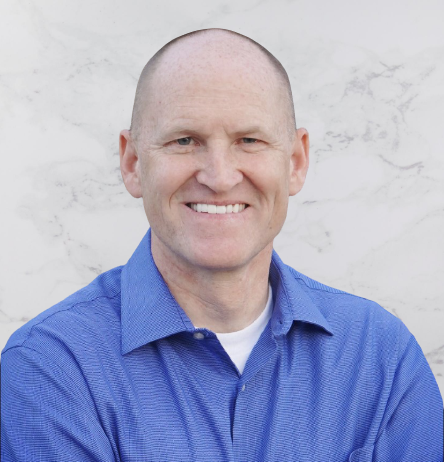
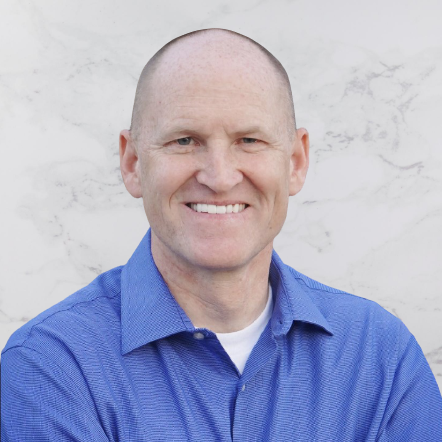
added pageview to components

diff --git a/src/Components/Team/Team.js b/src/Components/Team/Team.js
@@ -5,10 +5,8 @@ import kentMarble from '../../images/kentMarble.png';
 import markMarble2 from '../../images/markMarble2.png';
 import tiaMarble from '../../images/tiaMarble.png';
 import saraMarble2 from '../../images/saraMarble2.png';
-import codyMarble from '../../images/codyMarble.jpg';
+import codyNew from '../../images/codyNew.png';
 import jeffMarble2 from '../../images/jeffMarble2.png';
-// import jeffSuit from '../../images/jeffSuit.png';
-// import jeffSuit from '../../images/jeffSuit.png'
 import johnnyMarble from '../../images/johnnyMarble.jpg'
 import '../../CSS/Pages.css';
 import '../../CSS/App.css';
@@ -21,8 +19,13 @@ import KentModal from './KentModal';
 import MarkModal from './MarkModal';
 import SaraModal from './SaraModal';
 import TiaModal from './TiaModal';
+import ReactGA from 'react-ga';
+
+
 
 const Team = () => {
+  ReactGA.pageview('src/Components/Team/Team.js');
+
 
   //one state hook for each team member's modal
   const [showCodyModal, setShowCodyModal] = useState(false);
@@ -132,11 +135,11 @@ const Team = () => {
                 <div className="thumb-corporate__main team-member-container">
                   <button className="open-button" onClick={openKentModal}>
                     <img src={kentMarble} alt="" className="team-img " />
-                  </button>
                   <div className="overlay">
                     <p>Kent Allen, LMFT</p>
                     <p>Founder / Clinical Director</p>
                   </div>
+                  </button>
                 </div>
               </div>
               <KentModal
@@ -150,11 +153,11 @@ const Team = () => {
                 <div className="thumb-corporate__main team-member-container">
                   <button className="open-button" onClick={openSaraModal}>
                     <img src={saraMarble2} alt="" className="team-img " />
-                  </button>
                   <div className="overlay">
                     <p>Sara Allen, ME</p>
                     <p>Public Safety Liaison</p>
                   </div>
+                  </button>
                 </div>
               </div>
               <SaraModal
@@ -168,11 +171,11 @@ const Team = () => {
                 <div className="thumb-corporate__main team-member-container">
                   <button className="open-button" onClick={openTiaModal}>
                     <img src={tiaMarble} alt="" className="team-img " />
-                  </button>
                   <div className="overlay">
                     <p>Tia White, LCSW</p>
                     <p>Director of Research</p>
                   </div>
+                  </button>
                 </div>
                 <div className="thumb-corporate__caption">
 
@@ -189,11 +192,11 @@ const Team = () => {
                 <div className="thumb-corporate__main team-member-container">
                   <button className="open-button" onClick={openJohnModal}>
                     <img src={johnMarble2} alt="" className="team-img " />
-                  </button>
                   <div className="overlay">
                     <p>John Wright</p>
                     <p>IT Director</p>
                   </div>
+                  </button>
                 </div>
               </div>
               <JohnModal
@@ -206,12 +209,14 @@ const Team = () => {
               <div className="thumb thumb-corporate">
                 <div className="thumb-corporate__main team-member-container">
                   <button className="open-button" onClick={openCodyModal}>
-                    <img src={codyMarble} alt="" className="team-img " />
-                  </button>
+                    {/* <img src={codynewMarble} alt="" className="team-img " /> */}
+                    {/* <img src={codynewMarble2} alt="" className="team-img " /> */}
+                    <img src={codyNew} alt="" className="team-img " />
                   <div className="overlay">
                     <p>Cody Wilson</p>
-                    <p>PPN Advocate Manager</p>
+                    <p>PPN Manager</p>
                   </div>
+                  </button>
                 </div>
               </div>
               <CodyModal
@@ -226,11 +231,11 @@ const Team = () => {
                   <button className="open-button" onClick={openJeffModal}>
                     <img src={jeffMarble2} alt="" className="team-img " />
                     {/* <img src={jeffSuit} alt="" className="team-img " /> */}
-                  </button>
                   <div className="overlay">
                     <p>Jeffrey Denning</p>
                     <p>Sales Director</p>
                   </div>
+                  </button>
                 </div>
               </div>
               <JeffModal
@@ -244,11 +249,11 @@ const Team = () => {
                 <div className="thumb-corporate__main team-member-container">
                   <button className="open-button" onClick={openJohnOModal}>
                     <img src={johnnyMarble} alt="" className="team-img " />
-                  </button>
                   <div className="overlay">
                     <p>John O'Callaghan</p>
                     <p>Business Development</p>
                   </div>
+                  </button>
                 </div>
               </div>
               <JohnOModal

diff --git a/src/CSS/Pages.css b/src/CSS/Pages.css
@@ -79,12 +79,14 @@
   background-color: #7b0303;
   color: #CFCFCF;
 }
+
 .team-img {
   height: auto;
   width: 95%;
   margin: 15px;
   margin-right: 20px;
 }
+
 .thumb__title {
   font-size: 25px;
   font-weight: 700;
@@ -120,16 +122,21 @@
   bottom: 16px;
   left: 20px;
   right: 0;
-  background-color: #e2e2e29d;
+  background-color: #f7f7f7b7;
   overflow: hidden;
   /* width: 92%; */
   height: 40px;
   transition: .5s ease;
   color: black;
 }
-/* .overlay p {
-  padding-left: 2%;
-} */
+.overlay > p {
+  padding-left: 2%; 
+  font-weight: 500;
+}
+.team-member-container {
+  overflow: hidden;
+}
+
 .team-member-container:hover .overlay {
   height: 25%;
   overflow-x: hidden;

diff --git a/src/CSS/Responsive.css b/src/CSS/Responsive.css
@@ -38,6 +38,21 @@
     width: 377px !important;
     /* height: 100px; */
   }
+  .footer-outer {
+    flex-direction: column;
+  }
+  .about {
+    margin-left: 20px;
+    margin-bottom: 20px;
+    margin-top: 0;
+  }
+  .about > p {
+    width: 90vw;
+    font-size: 16px;
+  }
+  .contact {
+    margin: 0 0 10px 20px;
+  }
   /* CORPORATIONS */
   .corp-inner {
     display: flex;
@@ -428,6 +443,7 @@
 .overlay {
   width: 320px;
 }
+
 }
 /*tablet*/
 @media screen and (max-width: 900px ) {
@@ -504,9 +520,9 @@
     position: relative;
     right: 5vw;
   }
-  .about > p {
+  /* .about > p {
     font-size: 12px;
-  }
+  } */
   .contact > p {
     font-size: 12px;
   }

diff --git a/src/Components/Public Safety/PublicSafety.js b/src/Components/Public Safety/PublicSafety.js
@@ -1,15 +1,18 @@
 import React from "react";
 import NavBar from "../NavBar";
 import firefighters from '../../images/firefighters.jpg'
-
 import fireFighter1 from '../../images/fireFighter1.jpg';
 import fireLady from '../../images/fireLady.jpg';
 import medic from '../../images/medic.jpg';
 import TestimonialsPS from "./TestimonialsPS";
 import PsCarousel from "./PsCarousel";
 import UniFooter from "../UniFooter";
+import ReactGA from 'react-ga';
+
 
 const PublicSafety = () => {
+  ReactGA.pageview('src/Components/Public Safety/PublicSafety.js');
+
 
   const Mailto = ({ email, subject = '', body = '', children }) => {
     let params = subject || body ? '?' : '';

diff --git a/src/Components/Contact/Contact.js b/src/Components/Contact/Contact.js
@@ -1,10 +1,12 @@
 import React, {useRef} from 'react';
 import emailjs  from 'emailjs-com';
 import NavBar from '../NavBar';
-import {FaPenAlt, FaPenFancy, FaUser, FaPhoneAlt, FaEnvelope } from 'react-icons/fa'
+import {FaPenAlt, FaPenFancy, FaUser, FaPhoneAlt, FaEnvelope } from 'react-icons/fa';
+import ReactGA from 'react-ga';
 require('dotenv').config();
 
 const Contact = () => {
+  ReactGA.pageview('src/Components/Contact/Contact.js');
   
   const form = useRef();
   

diff --git a/src/Components/Military/Military.js b/src/Components/Military/Military.js
@@ -3,8 +3,13 @@ import uniform from '../../images/uniform.jpg'
 import {FaUsers, FaUserFriends, FaHandHoldingHeart, FaWarehouse} from 'react-icons/fa';
 import NavBar from '../NavBar';
 import UniFooter from '../UniFooter';
+import ReactGA from 'react-ga';
+
 
 const Military = () => {
+
+  ReactGA.pageview('src/Components/Military/Military.js');
+
 
   const Mailto = ({ email, subject = '', body = '', children }) => {
     let params = subject || body ? '?' : '';

diff --git a/src/Components/Resources/Resources.js b/src/Components/Resources/Resources.js
@@ -3,8 +3,12 @@ import React, {useState, useEffect } from 'react';
 import NavBar from '../NavBar';
 import UniFooter from '../UniFooter';
 import { resources } from './data'
+import ReactGA from 'react-ga';
+
 
 const Resources = () => {
+  ReactGA.pageview('src/Components/Resources/Resources.js');
+
   // const [resources, setResources] = useState([]);
   const [search, setSearch] = useState("");
   const [searchResults, setSearchResults] = useState([]);

diff --git a/src/Components/Corporations/Corporations.js b/src/Components/Corporations/Corporations.js
@@ -5,9 +5,13 @@ import meeting2 from '../../images/meeting2.jpg';
 import NavBar from "../NavBar";
 import CorCarousel from "../Correctional/CorCarousel"
 import UniFooter from "../UniFooter";
+import ReactGA from 'react-ga';
+
 
 
 const Corporations = () => {
+  ReactGA.pageview('src/Components/Coporations/Corporations.js');
+
 
   const Mailto = ({ email, subject = '', body = '', children }) => {
     let params = subject || body ? '?' : '';

diff --git a/src/Components/Humanitarian/Humanitarian.js b/src/Components/Humanitarian/Humanitarian.js
@@ -10,9 +10,12 @@ import summerCamp from '../../images/summerCamp.jpg';
 import building from '../../images/building.jpg';
 import soccer from '../../images/soccer.jpg';
 import UniFooter from '../UniFooter';
+import ReactGA from 'react-ga';
 
 
 const Humanitarian = ({deviceType}) => {
+  ReactGA.pageview('src/Components/Humanitarian/Humanitarian.js');
+
   const responsive = {
     desktop: {
       breakpoint: { max: 3000, min: 1024 },

diff --git a/src/Components/K12/K12.js b/src/Components/K12/K12.js
@@ -5,9 +5,13 @@ import books from '../../images/books.jpg';
 import graduation from '../../images/graduation.jpg';
 import K12Testimonials from './K12Testimonials';
 import UniFooter from '../UniFooter';
+import ReactGA from 'react-ga';
+
 
 
 const K12 = () => {
+  ReactGA.pageview('src/Components/K12/K12.js');
+
 
   const Mailto = ({ email, subject = '', body = '', children }) => {
     let params = subject || body ? '?' : '';

diff --git a/src/Components/Correctional/Correctional.js b/src/Components/Correctional/Correctional.js
@@ -2,8 +2,12 @@ import React from "react";
 import NavBar from "../NavBar";
 import UniFooter from "../UniFooter";
 import CorCarousel from "./CorCarousel";
+import ReactGA from 'react-ga';
+
 
 const Correctional = () => {
+  ReactGA.pageview('src/Components/Correctional/Correctional.js');
+
 
   const Mailto = ({ email, subject = '', body = '', children }) => {
     let params = subject || body ? '?' : '';

diff --git a/src/index.js b/src/index.js
@@ -13,7 +13,14 @@ const Router = HashRouter;
 
 
 const TRACKING_ID = "G-VB3PNSBYJ8"; // YOUR_OWN_TRACKING_ID
-ReactGA.initialize(TRACKING_ID);
+ReactGA.initialize(TRACKING_ID, {
+  debug: true,
+  titleCase: false,
+  gaOptions: {
+    userId: 123,
+    siteSpeedSampleRate: 100
+  }
+});;
 
 history.listen(location => {
   ReactGA.set({ page: location.pathname }); // Update the user's current page
